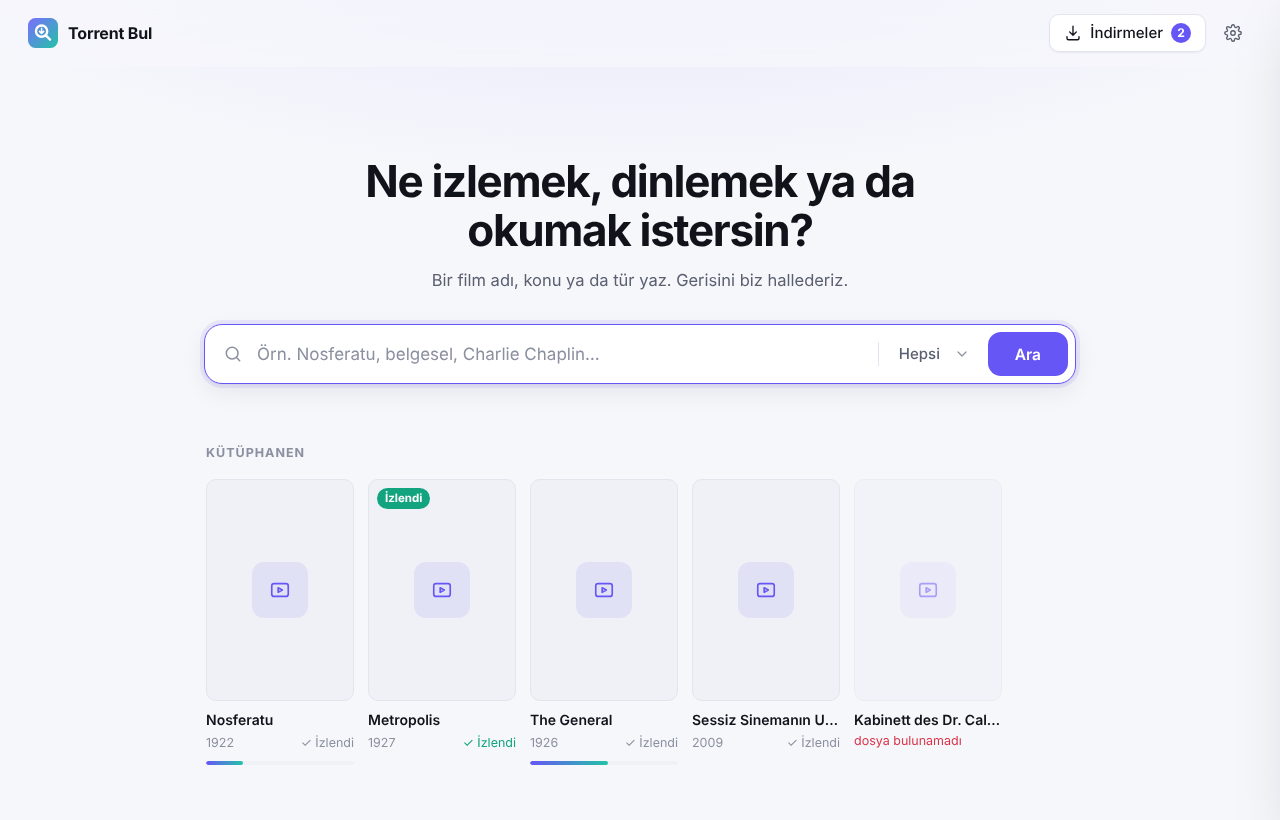
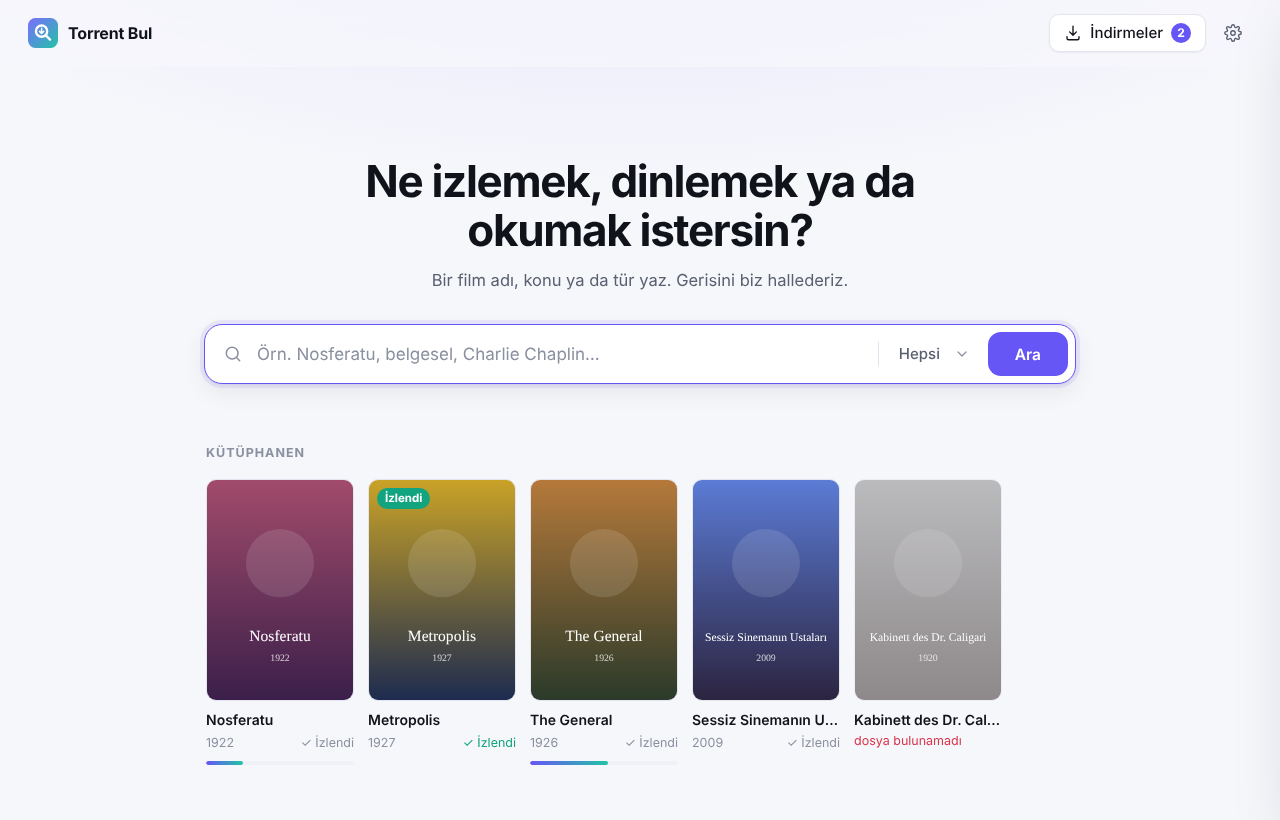
Eksikler: ekran görüntüleri, düz .ts cezası, OMDb önbelleğinin anında yazılması
- docs/: README kütüphaneyi, dosya seçimini ve sırayı anlatıyor ama
  görseller bunları göstermiyordu. Ana ekran afişli kütüphane şeridiyle
  yeniden çekildi, dosya seçimi penceresi (dosya-secimi.png) eklendi;
  görseller README'de açıklamalı olarak ilgili özelliğin yanında.
- Sıralama: başlıkta düz "ts" görünce kamera kaydı cezası veriliyordu;
  çoğu zaman bu yalnızca .ts video uzantısıdır. Ceza artık cam, hdcam,
  telesync, hdts, tsrip gibi açık etiketlere ve yıldan sonra ya da
  kodek/çözünürlükten önce gelen TS sürüm etiketine uygulanıyor.
- OMDb önbelleği arama bitince yazılıyordu; arama yarıda kesilirse o
  turdaki cevaplar kayboluyor, sonraki açılışta tekrar soruluyordu. Her
  cevap gelir gelmez diske yazılıyor.

Claude-Session: https://claude.ai/code/session_01AymLfxAtTPx6kYKee8CYCW

Changed region(s): [[0.1562, 0.5793, 0.7812, 0.8537]]

diff --git a/test/catalog.test.js b/test/catalog.test.js
@@ -160,3 +160,26 @@ test('önbellekteki sonuçlar 20 sorgu kotasından düşmez', async () => {
   assert.equal(calls, 40);
   assert.ok(mixed.every((r) => r.rating));
 });
+
+test('OMDb cevabı arama bitmeden diske yazılır', async () => {
+  const file = path.join(tmp(), 'omdb-cache.json');
+  // İlk yapım hemen döner, ikincisi hiç dönmez (arama yarıda kalır).
+  const fakeFetch = (url) => {
+    if (new URL(url).searchParams.get('t') === 'Nosferatu') {
+      return Promise.resolve(new Response(JSON.stringify({ Response: 'True', imdbID: 'tt0013442', imdbRating: '7.9', Year: '1922' }), { status: 200 }));
+    }
+    return new Promise(() => {});
+  };
+  const pending = addImdbRatings([
+    { title: 'Nosferatu (1922)', category: 'movies' },
+    { title: 'Asla Gelmeyen 1930', category: 'movies' },
+  ], 'k', { fetch: fakeFetch, ratingsCache: createRatingsCache(file) });
+  await wait(50);
+  const saved = JSON.parse(fs.readFileSync(file, 'utf8'));
+  assert.equal(saved['nosferatu|1922|false'].value.imdbId, 'tt0013442');
+  // Yeni oturum bu yapımı tekrar sormaz.
+  let calls = 0;
+  await addImdbRatings([{ title: 'Nosferatu (1922)', category: 'movies' }], 'k', { fetch: async () => { calls++; return new Response('{}'); }, ratingsCache: createRatingsCache(file) });
+  assert.equal(calls, 0);
+  void pending;
+});

diff --git a/src/ranking.js b/src/ranking.js
@@ -8,7 +8,10 @@ const TR_WORDS = /(?<![\p{L}\p{N}])(t[uü]rk[cç]e|turkish|dublaj|altyaz[ıi]l?[
 const TR_TAGS = /(?<![\p{L}\p{N}])tr[\s._-]?(dub|dublaj|altyaz[ıi]|sub)/iu;
 const TR_LANG = /^(tur|tr|turkish|t[uü]rk[cç]e)$/i;
 const RESOLUTION_BONUS = [[/2160p|\b4k\b|uhd/i, 0.4], [/1080p/i, 0.3], [/720p/i, 0.15]];
-const LOW_QUALITY = /\b(cam|hdcam|camrip|telesync|ts)\b/i;
+const LOW_QUALITY = /\b(cam|hdcam|camrip|telesync|hdts|tsrip|ts-rip)\b/i;
+// Düz "ts" çoğu zaman yalnızca .ts video uzantısıdır; telesync etiketi sayılması
+// için yıldan sonra ya da kodek/çözünürlük gibi sürüm bilgisinden önce gelmeli.
+const TS_TAG = /(?:\b(?:19|20)\d{2}[)\]]?(?:[\s_-]+ts\b|\.ts\b(?!\s*$))|\bts[\s._-]+(?:x26[45]|h\.?26[45]|xvid|divx|aac|ac3|mp3|\d{3,4}p|line|audio)\b)/i;
 
 export function isTurkish(result) {
   const langs = [].concat(result.language || []);
@@ -24,7 +27,7 @@ export function score(result) {
   const title = result.title || '';
   const res = RESOLUTION_BONUS.find(([re]) => re.test(title));
   if (res) s += res[1];
-  if (LOW_QUALITY.test(title)) s -= 0.8;
+  if (LOW_QUALITY.test(title) || TS_TAG.test(title)) s -= 0.8;
   return s;
 }
 

diff --git a/test/search.test.js b/test/search.test.js
@@ -145,3 +145,15 @@ test('Lucene işleçleri ve özel karakterler sorguyu bozmaz', async () => {
   assert.deepEqual(await archive.search({ query: '"()" :' }, { fetch: fakeFetch }), []);
   assert.equal(calls.length, 0);
 });
+
+test('düz .ts uzantısı kamera kaydı sayılmaz, TS sürüm etiketi sayılır', () => {
+  const penalized = (title) => rankResults([{ id: 'x', title, torrentUrl: 'x' }, { id: 'y', title: 'Film 2023', torrentUrl: 'y' }])[0].id === 'y';
+  assert.ok(!penalized('Bolum1.ts'));
+  assert.ok(!penalized('Kayit.2023.ts'));
+  assert.ok(!penalized('Teen.Titans.Go.S01'));
+  assert.ok(penalized('Film.2023.TS.x264'));
+  assert.ok(penalized('Film (2023) TS'));
+  assert.ok(penalized('Film.TS.XviD'));
+  assert.ok(penalized('Film 2023 HDTS 720p'));
+  assert.ok(penalized('Film 2023 Telesync'));
+});

diff --git a/src/ratings.js b/src/ratings.js
@@ -81,7 +81,8 @@ async function fetchInfo(fetchImpl, apiKey, result) {
 async function lookup(fetchImpl, apiKey, result, cache, key) {
   if (inflight.has(key)) return inflight.get(key);
   const promise = fetchInfo(fetchImpl, apiKey, result)
-    .then((value) => { cache.set(key, value); return value; })
+    // Her cevap gelir gelmez diske yazılır: arama yarıda kesilse de o tur kaybolmaz.
+    .then((value) => { cache.set(key, value); cache.flush(); return value; })
     .catch(() => null)
     .finally(() => inflight.delete(key));
   inflight.set(key, promise);

diff --git a/README.md b/README.md
@@ -4,7 +4,7 @@ Bir film adı, konu ya da tür yaz; sonuçları gör, **İndir**’e bas. Hepsi 
 
 Torrent Bul; Windows, macOS ve Linux’ta çalışan sade bir masaüstü uygulamasıdır. Dahili torrent motoru (WebTorrent) sayesinde ayrı bir torrent programı kurman gerekmez.
 
-![Ana ekran](docs/ana-ekran.png)
+![Ana ekran ve Kütüphanen şeridi: afiş, ilerleme çubuğu ve İzlendi işareti](docs/ana-ekran.png)
 
 ## Neler yapar?
 
@@ -27,8 +27,22 @@ Torrent Bul; Windows, macOS ve Linux’ta çalışan sade bir masaüstü uygulam
 - **Tepside çalışma (isteğe bağlı):** Ayarlar’dan açarsan pencereyi kapatınca indirmeler sürer; tepsideki simgeden açıp çıkabilirsin. Varsayılan olarak kapatmak uygulamayı kapatır.
 - **Açık ve koyu tema:** sistem ayarını takip eder.
 
+## Ekran görüntüleri
+
+**Arama sonuçları:** Türkçe olanlar önde, lisans rozetleri (CC, Kamu malı) ve tür bilgisiyle.
+
 ![Sonuçlar](docs/sonuclar.png)
+
+**Dosya seçimi:** çok dosyalı torrentte en büyük video ve ona uyan altyazı hazır işaretli gelir; örnek (sample) dosyalar işaretlenmez.
+
+![Dosya seçimi](docs/dosya-secimi.png)
+
+**İndirmeler:** fazla indirmeler **Sırada** bekler; dosya seçimi bekleyen torrentte **Dosya seç** düğmesi çıkar.
+
 ![İndirmeler](docs/indirmeler.png)
+
+**Oynatıcı:** kaldığın yerden devam, oynatma hızı ve **Altyazı yükle**.
+
 ![Oynatıcı](docs/oynatici.png)
 
 ## Arama kaynakları
